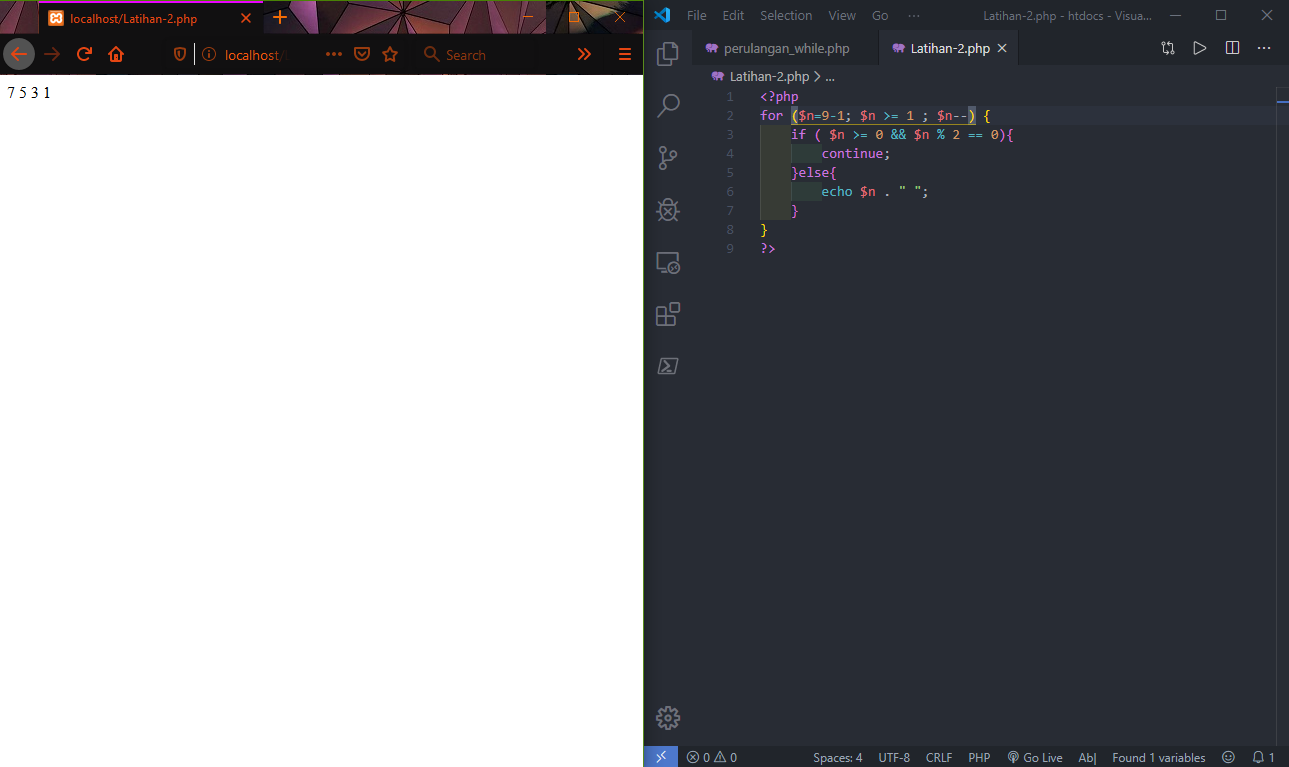
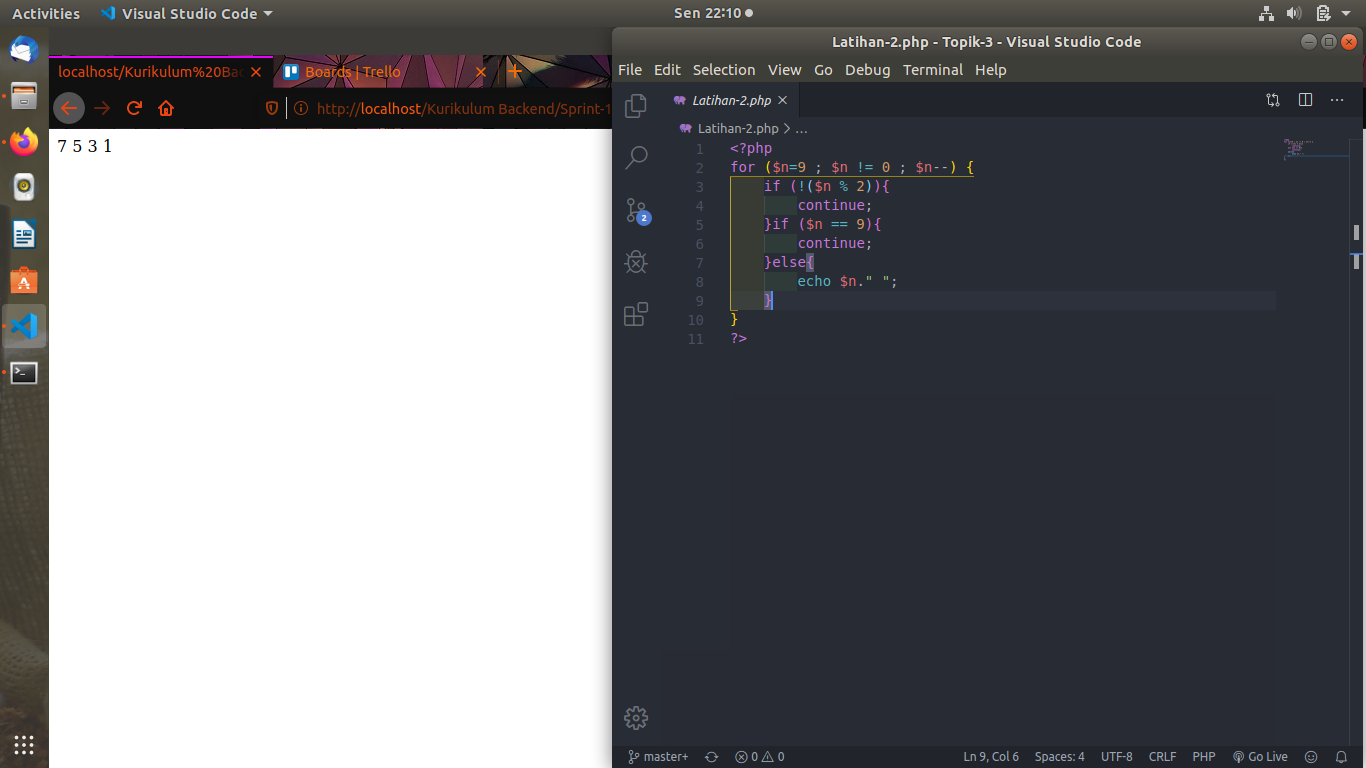
senin malem

Changed region(s): [[0.0, 0.0, 1.0, 1.0], [0.931, 0.1799, 0.962, 0.2099], [0.931, 0.1199, 0.962, 0.1499]]

diff --git a/Sprint-1/Topik-3/Latihan-2.php b/Sprint-1/Topik-3/Latihan-2.php
@@ -1,9 +1,11 @@
 <?php
-for ($n=9-1; $n >= 1 ; $n--) {
-    if ( $n >= 0 && $n % 2 == 0){
+for ($n=9 ; $n != 0 ; $n--) {
+    if (!($n % 2)){
+        continue;
+    }if ($n == 9){
         continue;
     }else{
-        echo $n . " ";
+        echo $n." ";
     }
 }
 ?>

diff --git a/Sprint-1/Topik-3/Latihan-1.php b/Sprint-1/Topik-3/Latihan-1.php
@@ -12,3 +12,4 @@ while ($n != 17) {
         echo ($n." ");
         }
 }
+?>
